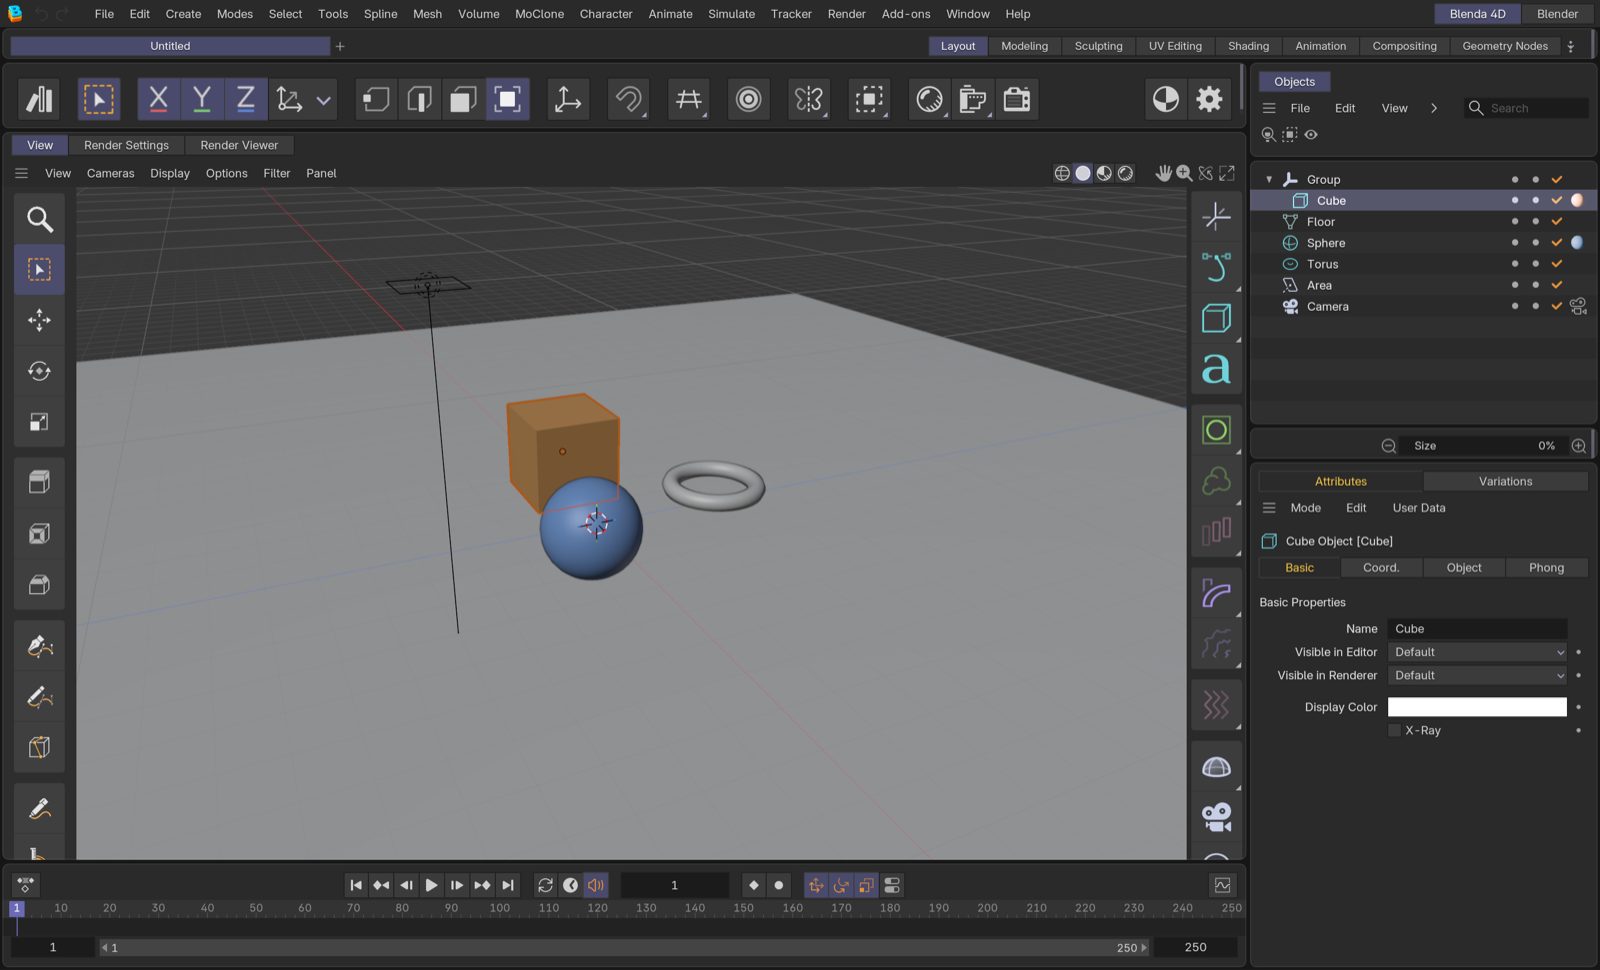
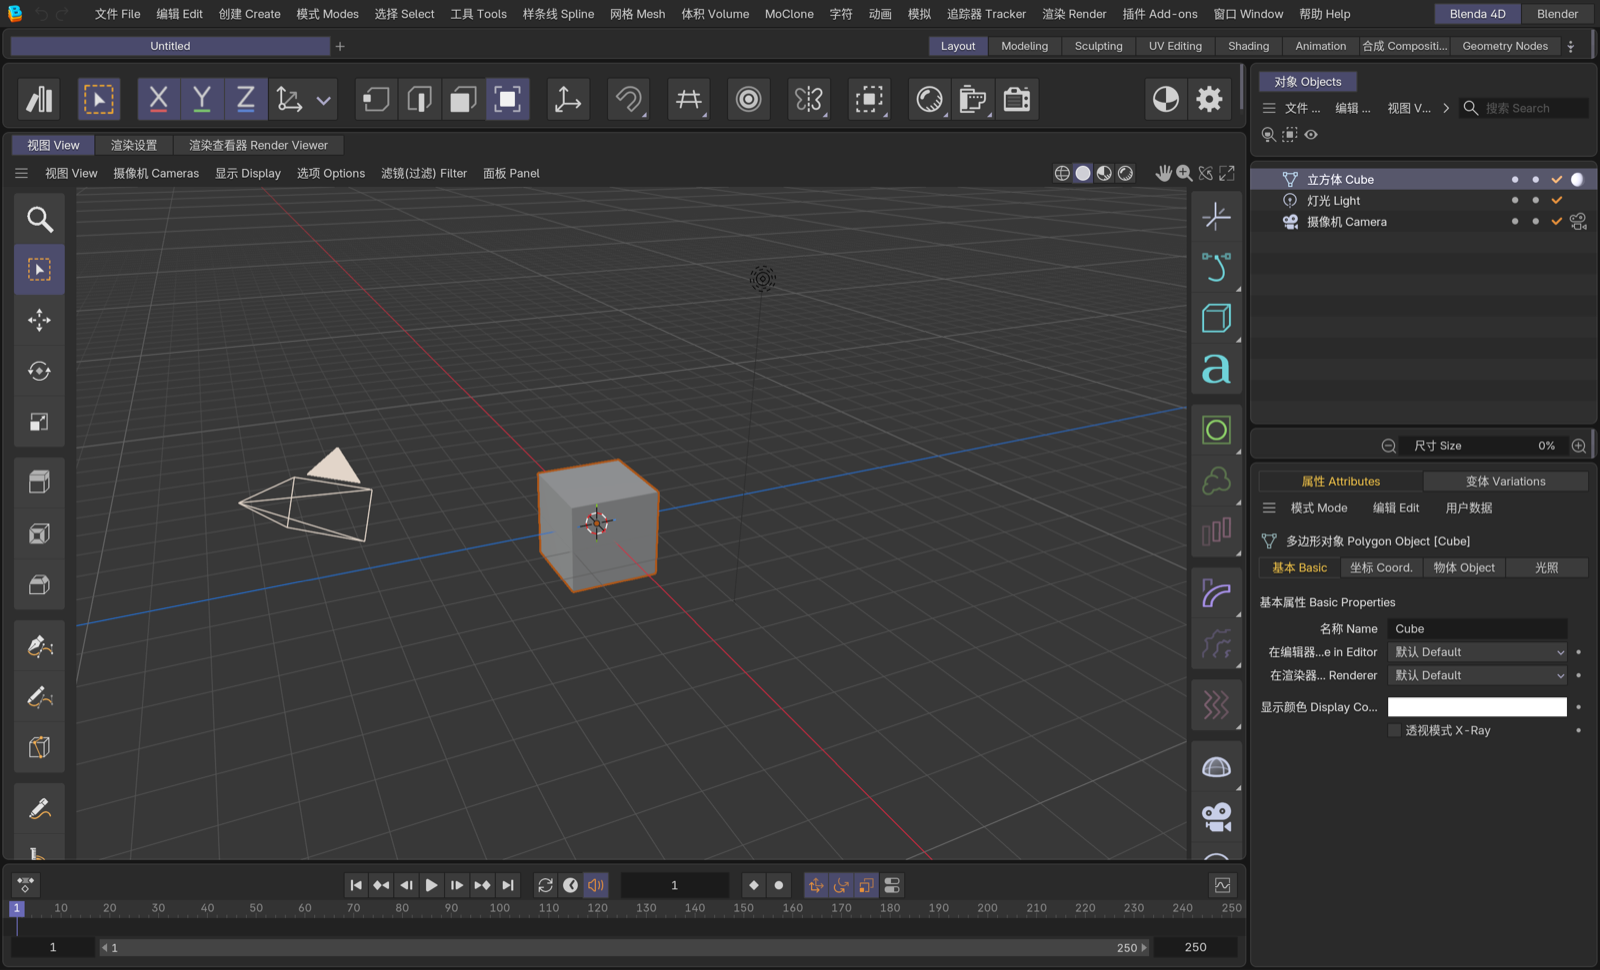
feat(installer): pick target Blenders; version read from the payload
When several Blender 5.2+ installs are found, the installer asks which ones
to install into (numbers, space separated; Enter/EOF = all), instead of
always installing everywhere. Payload zip and version are detected at
runtime, so scripts no longer hardcode a version. Package guide rewritten
(version-agnostic, bilingual-UI note, selection step). READMEs describe
0.1.28 and show the bilingual layout (real capture, sample scene).

diff --git a/README.md b/README.md
@@ -3,7 +3,7 @@
 **English** | [简体中文](README.zh-CN.md)
 
 > **This is a community fork** of [recon007jf/Blenda4D](https://github.com/recon007jf/Blenda4D) with a bug-fix
-> release (**0.1.27**) and a **one-click installer for Windows + macOS**. Everything else is the original project,
+> release (**0.1.28**) and a **one-click installer for Windows + macOS**. Everything else is the original project,
 > same GPL-3.0 licence. See [What's new in this fork](#whats-new-in-this-fork-0127).
 
 A free, open-source add-on that gives Blender a motion-design layout and workflow.
@@ -18,28 +18,36 @@ and saved layouts. Everything is drawn with Blender's own buttons, fields and me
 It is a plain Python add-on: no patched Blender, nothing to compile. It runs wherever Blender 5.2 LTS or later runs
 (Mac, Windows, Linux).
 
-## What's new in this fork (0.1.27)
+## What's new in this fork (0.1.28)
 
-- **Fix: Render Settings now restore viewport shading.** Switching between named render settings silently skipped
-  every `display.shading.*` value (viewport light, color type, backface culling, x-ray, shadows, cavity, outline,
-  specular highlight), so the viewport never went back to how a setting had it. One-line parsing fix in
-  `render_settings.py`, verified by the project's own headless test (was `FAIL 1`, now `ALL PASS`).
-- **One-click installer for Windows + macOS** (`Blenda4D-0.1.27-OneClick-WinMac.zip` on the
-  [Releases page](https://github.com/luoboruodai/Blenda4D/releases)): finds every Blender 5.2+ on the machine,
-  installs and enables Blenda 4D through Blender's own extension installer, and reports per-version results.
-  Uninstallers included. No manual steps, nothing written outside Blender's user folders.
+- **Bilingual interface, following Blender's language.** With Blender's Simplified Chinese (bilingual) language,
+  Blenda 4D's own UI - menus, tabs, managers, tools, buttons and tooltips - now shows 中文 English everywhere,
+  the same style as Blender's own dictionary. About 1,550 strings are translated in `blenda4d/translations.py`;
+  anything Blender's dictionary already covers is left to it, and other languages are untouched.
+- **The one-click installer now lets you pick target Blenders.** When several Blender 5.2+ installs are found,
+  type the numbers you want (space separated) or press Enter for all. The scripts also read the version from the
+  payload itself, so the package no longer hardcodes it.
+- **Fix: Render Settings now restore viewport shading** (since 0.1.27). Switching between named render settings
+  silently skipped every `display.shading.*` value (viewport light, color type, backface culling, x-ray, shadows,
+  cavity, outline, specular highlight). One-line parsing fix in `render_settings.py`, verified by the project's
+  own headless test (was `FAIL 1`, now `ALL PASS`).
+- **One-click installer for Windows + macOS** (`Blenda4D-0.1.28-OneClick-WinMac.zip` on the
+  [Releases page](https://github.com/luoboruodai/Blenda4D/releases)): installs and enables Blenda 4D through
+  Blender's own extension installer, and reports per-version results. Uninstallers included. No manual steps,
+  nothing written outside Blender's user folders.
 - **Test-harness fixes** so the project's own checks run to completion on Blender 5.3 (`tools/tests/`).
 
-Verified on macOS with Blender 5.2.2 LTS and 5.3.0 Alpha: full install → uninstall → reinstall cycle, the project's
-12 headless test suites, and a real-UI smoke test (layout on/off restore). The Windows installer scripts are
-statically checked but not yet run on a real Windows machine - reports welcome.
+Verified on macOS with Blender 5.2.2 LTS and 5.3.0 Alpha: the bilingual UI checked on real screenshots, the
+installer's pick-one / pick-several / install-all paths, full install → uninstall → reinstall cycle, the project's
+10 headless test suites (597 checks), and a real-UI smoke test (layout on/off restore). The Windows installer
+scripts are statically checked but not yet run on a real Windows machine - reports welcome.
 
 ## Install
 
 ### The easy way: one-click installer (Windows + macOS)
 
 1. Install [Blender 5.2 LTS](https://www.blender.org/download/) or later.
-2. Download **`Blenda4D-0.1.27-OneClick-WinMac.zip`** from the
+2. Download **`Blenda4D-0.1.28-OneClick-WinMac.zip`** from the
    [latest release](https://github.com/luoboruodai/Blenda4D/releases/latest) and unzip it.
 3. Double-click **`Install Blenda4D (Mac).command`** on macOS (first time: right-click → Open), or
    **`Install Blenda4D (Windows).bat`** on Windows.
